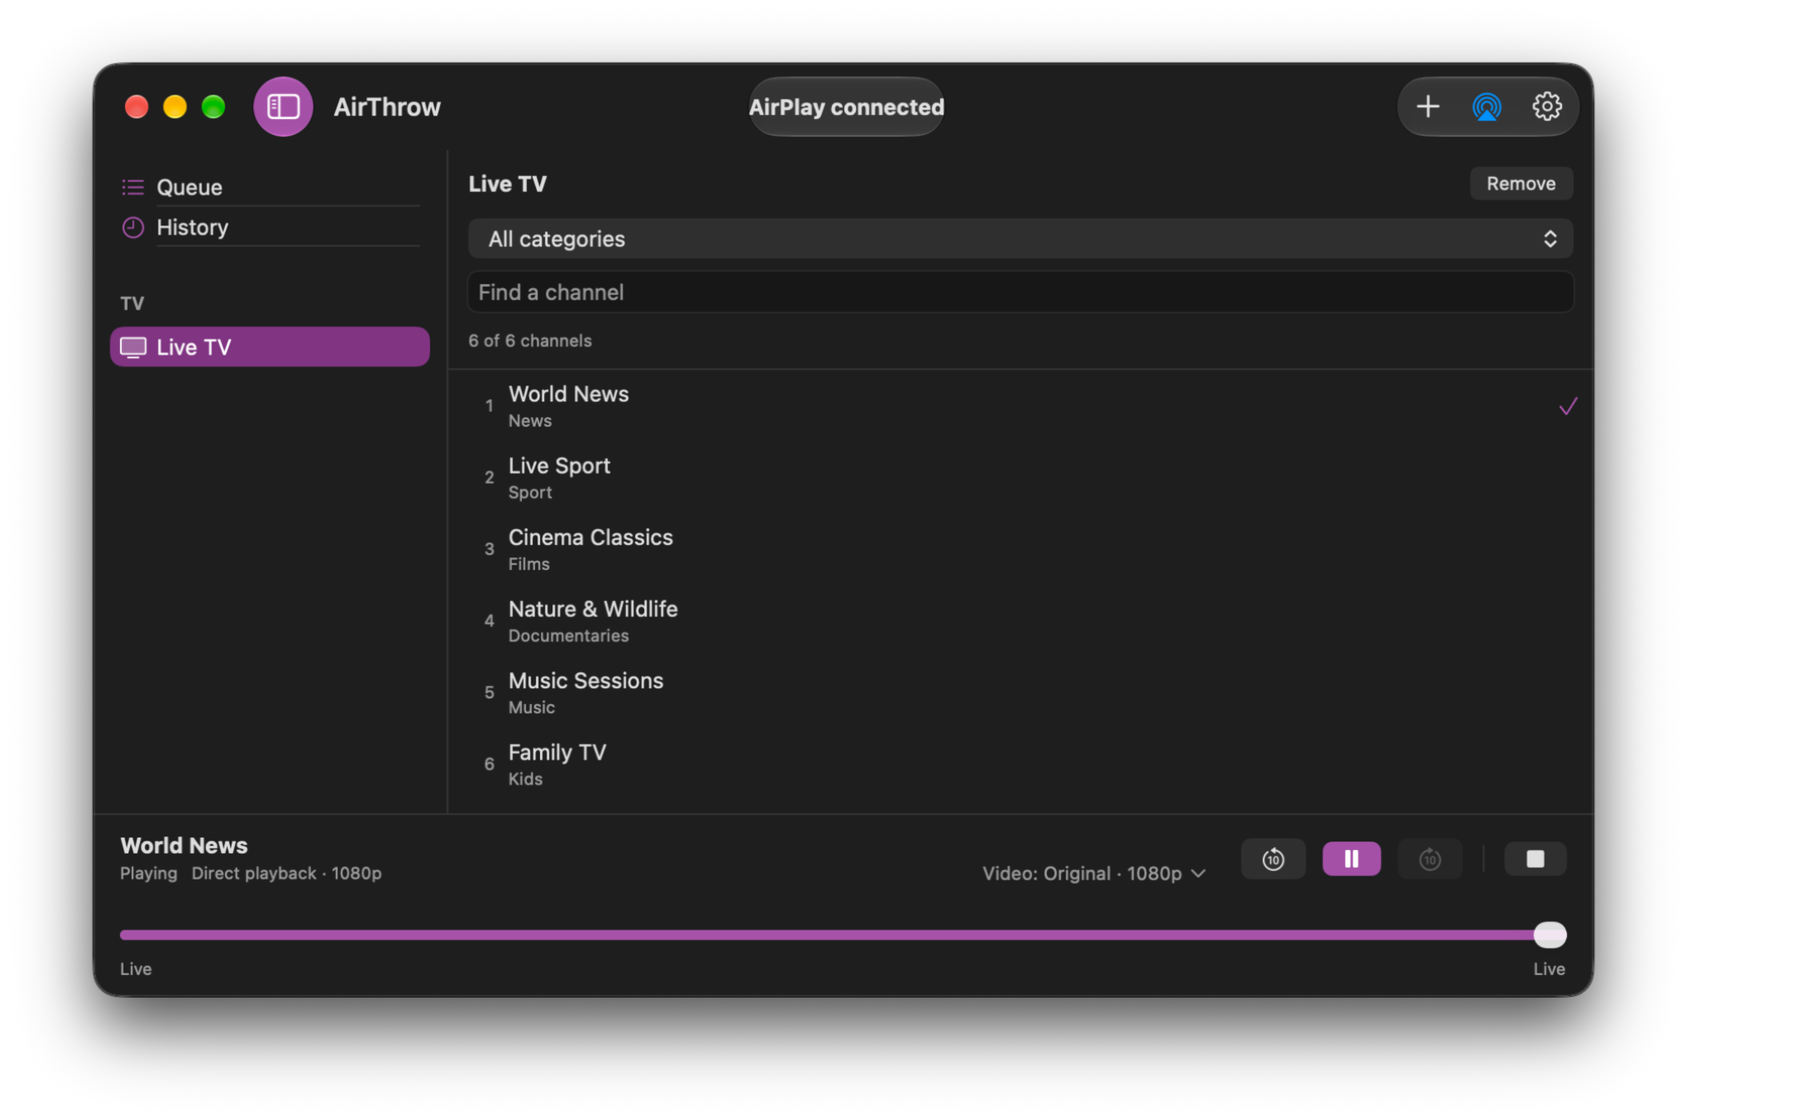
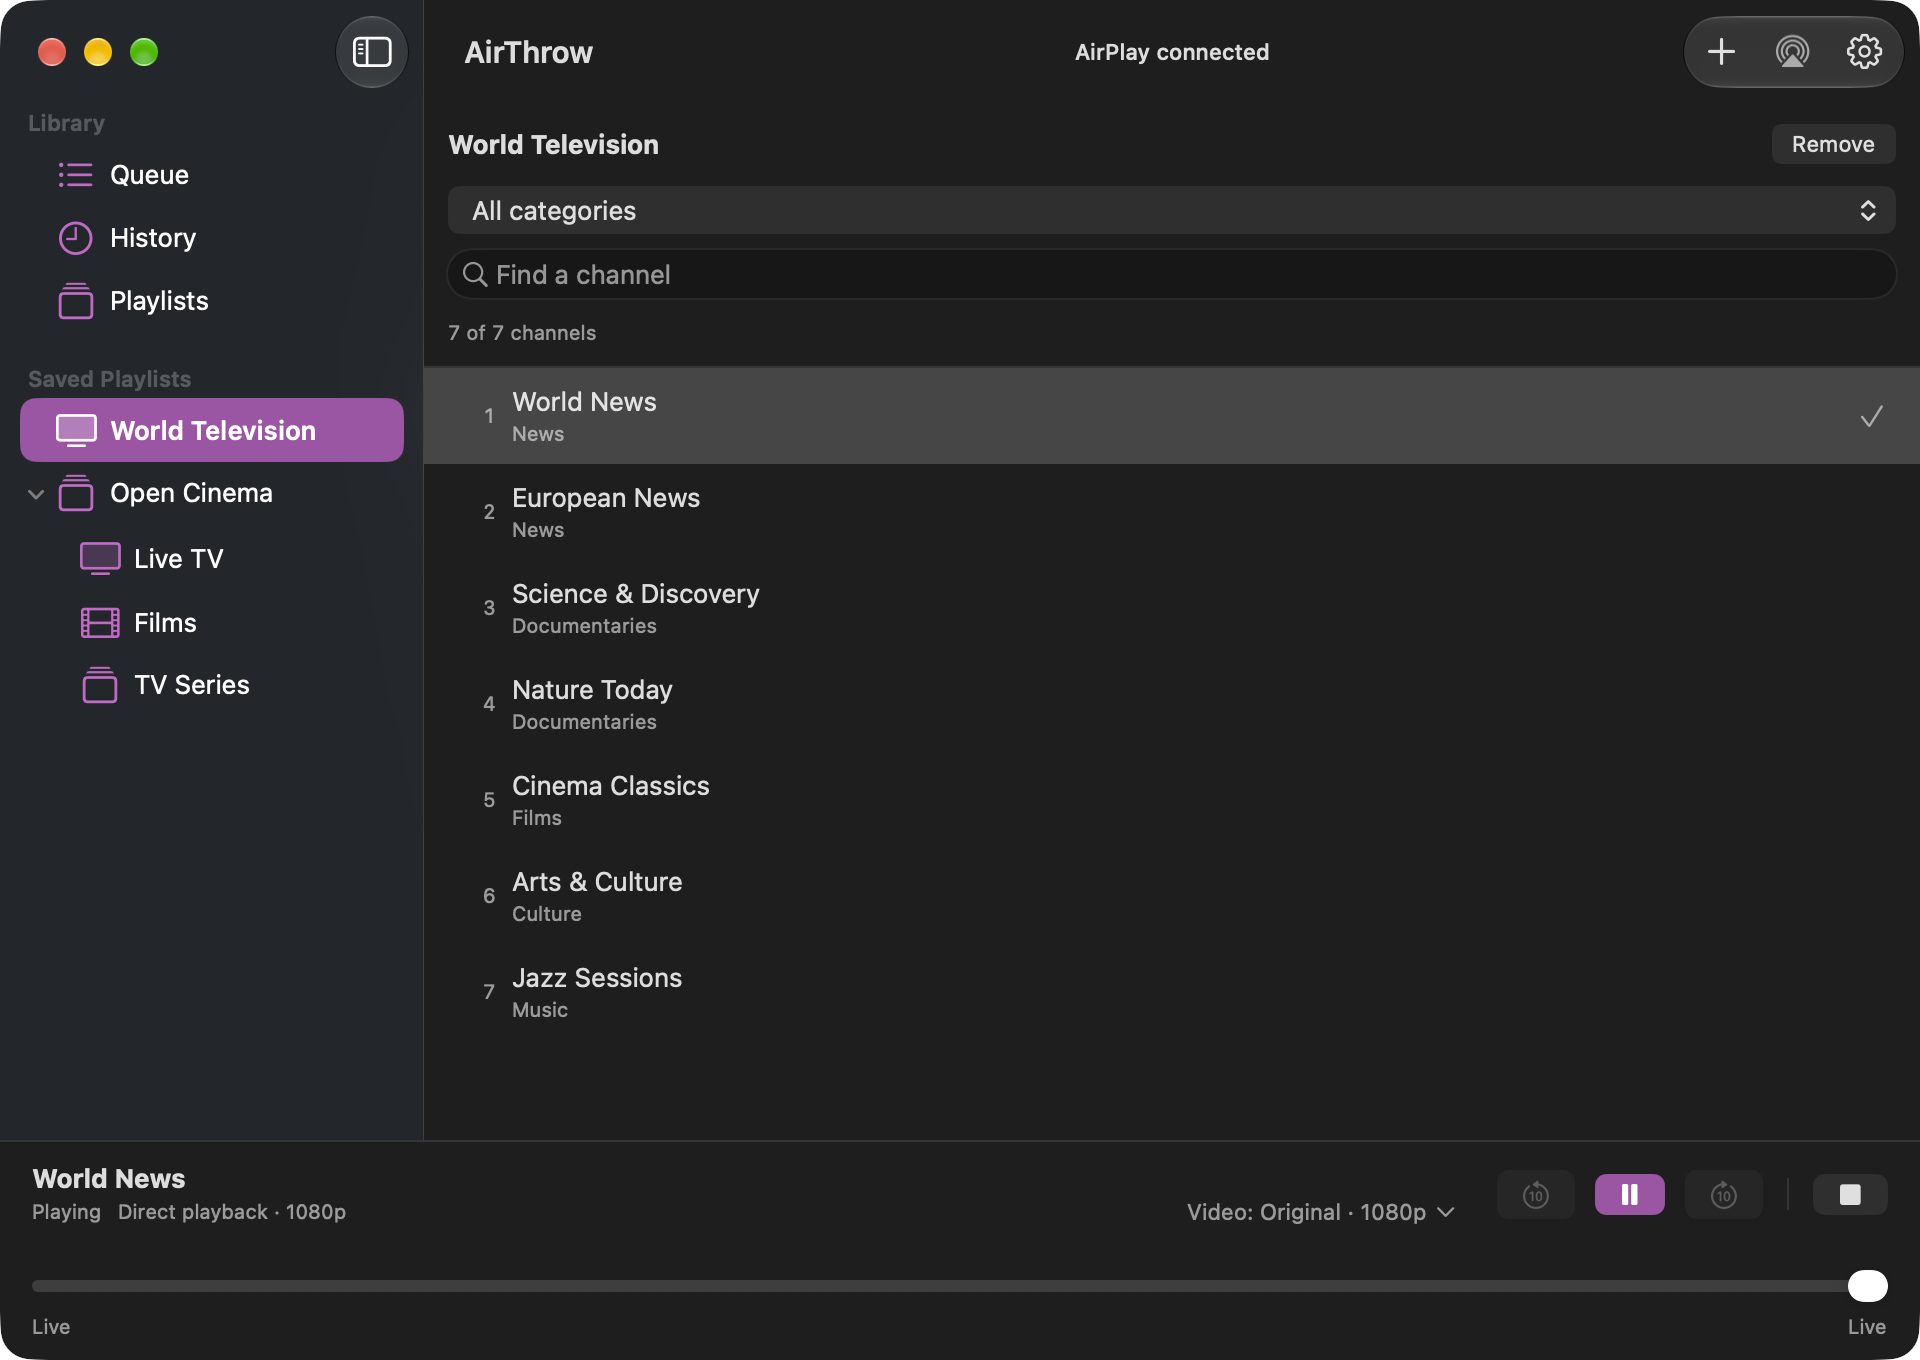
Fix Now Playing artwork handling and refresh native UI screenshots

diff --git a/Tests/SystemPlaybackChecks/main.swift b/Tests/SystemPlaybackChecks/main.swift
@@ -2,6 +2,11 @@ import Foundation
 import AVFoundation
 import MediaPlayer
 
+/// Exercise MediaPlayer's background request contract without mutating artwork.
+private struct ArtworkRequest: @unchecked Sendable {
+    let artwork: MPMediaItemArtwork
+}
+
 /// Reports a simulated route while native items supply tracks and seek ranges.
 /// Transport never starts local audio or video playback.
 private final class RemotePlayer: AVPlayer, @unchecked Sendable {
@@ -156,6 +161,13 @@ struct SystemPlaybackChecks {
         try await wait { artwork.artwork != nil }
         try check(updates == 1 && artwork.artwork!.bounds.width <= 640 && artwork.artwork!.bounds.height <= 640,
                   "Static video artwork was not bounded or published exactly once")
+        let poster = artwork.artwork!
+        let request = ArtworkRequest(artwork: poster)
+        let backgroundImageSize = await Task.detached {
+            request.artwork.image(at: CGSize(width: 320, height: 180))?.size
+        }.value
+        try check(backgroundImageSize == poster.bounds.size,
+                  "Now Playing artwork could not be requested from a background queue")
         artwork.load(url: url("artwork.mp4"), allowVideoFrame: false) { updates += 1 }
         try await wait { artwork.artwork != nil }
         try check(artwork.artwork!.bounds.size == CGSize(width: 64, height: 64), "Embedded artwork was not preferred")

diff --git a/Sources/AirThrowApp/PlaybackController.swift b/Sources/AirThrowApp/PlaybackController.swift
@@ -3264,8 +3264,12 @@ final class NowPlayingArtworkLoader {
                     }
                 }
                 guard !Task.isCancelled, self.requestID == id, let image else { return }
-                let poster = NSImage(cgImage: image, size: NSSize(width: image.width, height: image.height))
-                self.artwork = MPMediaItemArtwork(boundsSize: poster.size) { _ in poster }
+                let size = NSSize(width: image.width, height: image.height)
+                // MediaPlayer requests artwork on its own queue. Capture the
+                // immutable bitmap without inheriting this task's MainActor.
+                self.artwork = MPMediaItemArtwork(boundsSize: size) { @Sendable _ in
+                    NSImage(cgImage: image, size: size)
+                }
                 changed()
             } catch { /* Optional metadata must never fail playback or expose source errors. */ }
         }
